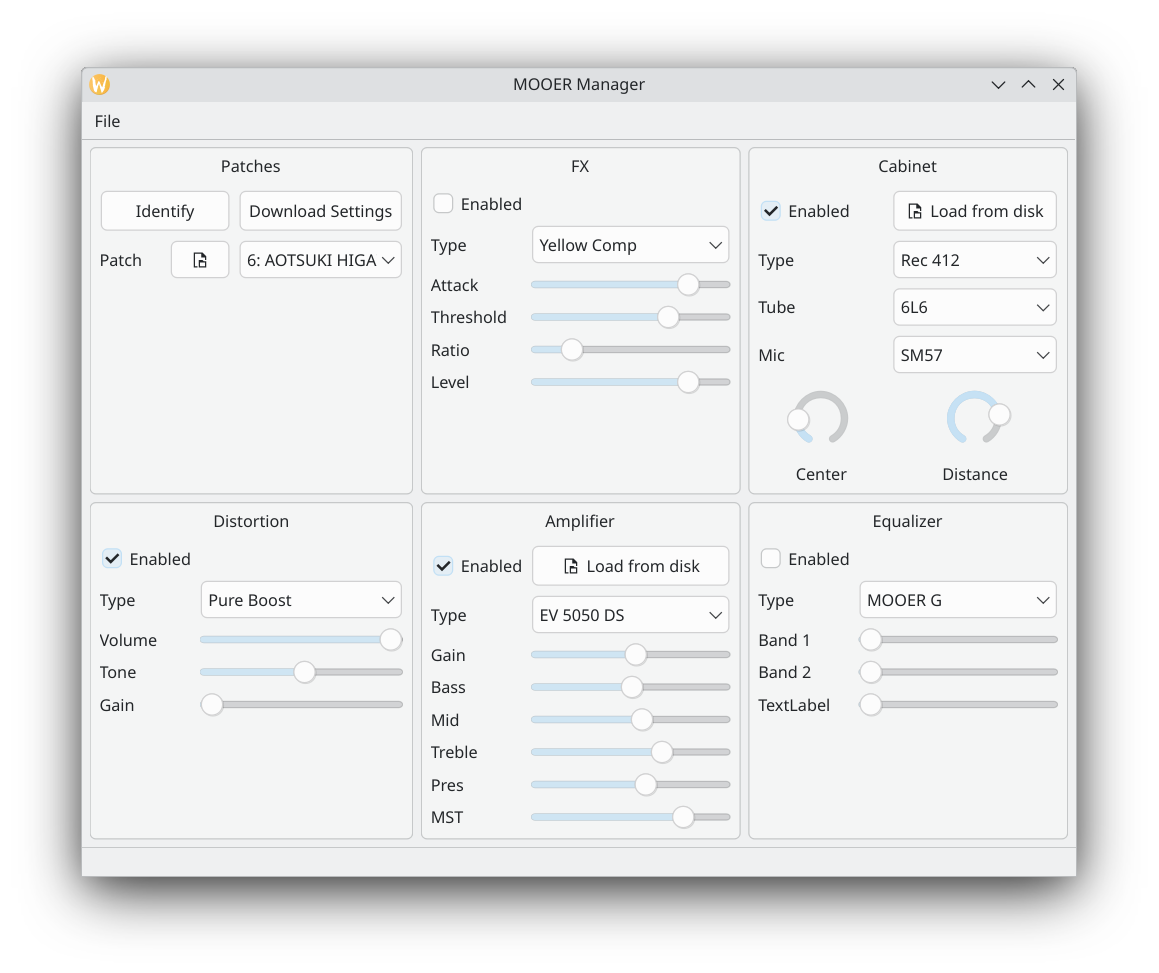
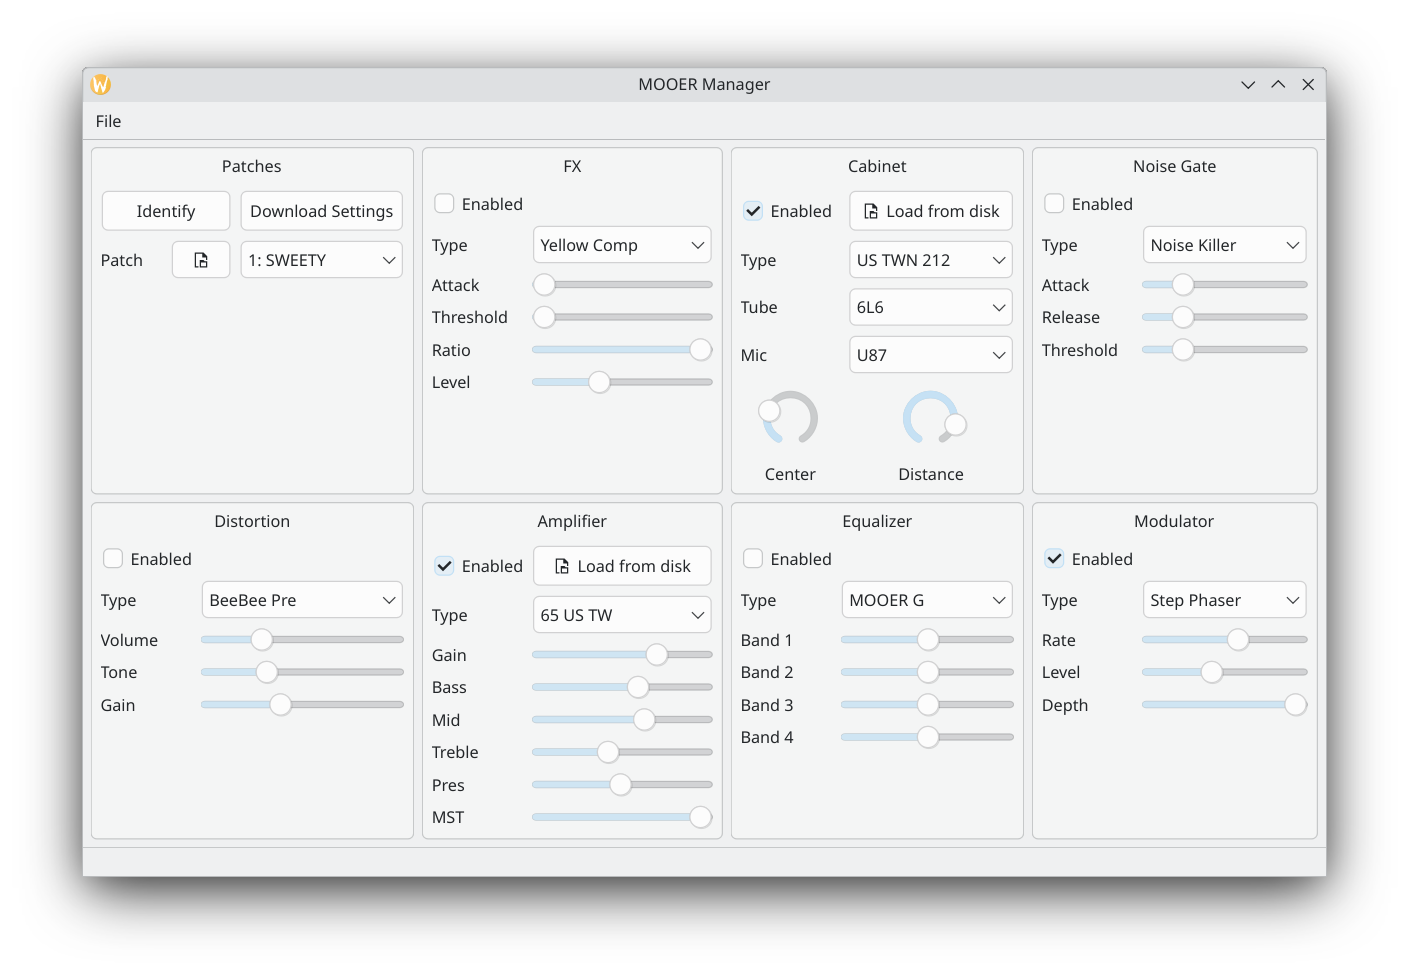
Add control for noise-gate, EQ and MOD

diff --git a/mooer.gui/MooerManager.cc b/mooer.gui/MooerManager.cc
@@ -6,7 +6,7 @@
 #include <QFileDialog>
 
 
-//#define DEBUG_LVL 3
+#define DEBUG_LVL 3
 
 
 const QString ptFileOpen = "/home/thijs/gitrepo/mooer/traces";
@@ -50,6 +50,7 @@ std::vector<std::uint8_t> ReadFile(std::filesystem::path fn)
 MooerManager::MooerManager(QWidget* parent)
 	: m_usb({Mooer::vendor_id, Mooer::product_id})
 	, m_mooer(&m_usb, this)
+	, m_need_patches(true)
 #ifdef MOOER_HAS_MIDI
 	, m_midi("MooerManager", this)
 #endif
@@ -94,6 +95,9 @@ MooerManager::MooerManager(QWidget* parent)
 	ConnectDistortion();
 	ConnectAmplifier();
 	ConnectCabinet();
+	ConnectNoiseGate();
+	ConnectEqualizer();
+	ConnectModulator();
 
 	connect(
 		this,
@@ -103,6 +107,12 @@ MooerManager::MooerManager(QWidget* parent)
 		{
 			qDebug() << "Connected to " << name;
 			m_ui.statusbar->showMessage(QString("Connected to %1, version %2").arg(name, version), 5 * 1000);
+			if(m_need_patches)
+			{
+				m_mooer.SendFlush();
+				m_mooer.SendPatchListRequest();
+				m_need_patches = false;
+			}
 		},
 		Qt::QueuedConnection);
 
@@ -143,8 +153,7 @@ MooerManager::MooerManager(QWidget* parent)
 
 	// This is the sequence MooerStudio sends out
 	m_mooer.SendIdentifyRequest();
-	m_mooer.SendFlush();
-	m_mooer.SendPatchListRequest();
+	m_mooer.SendIdentifyRequest();
 	qDebug() << "MooerManager: constructor finished";
 }
 
@@ -303,7 +312,7 @@ void MooerManager::ConnectNoiseGate()
 	connect(m_ui.cb_ns_enabled, &QCheckBox::clicked,
 			[=](bool e){ pS->enabled = e; send(); });
 	connect(m_ui.cb_ns_type, &QComboBox::currentIndexChanged,
-			[=](int i){ pS->type = i; send(); });
+			[=](int i){ pS->type = i+1; send(); });
 	connect(m_ui.sl_ns_p1, &QSlider::valueChanged,
 			[=](int v){ pS->attack = v; send(); });
 	connect(m_ui.sl_ns_p2, &QSlider::valueChanged,
@@ -324,13 +333,15 @@ void MooerManager::ConnectEqualizer()
 	connect(m_ui.cb_eq_enabled, &QCheckBox::clicked,
 			[=](bool e){ pS->enabled = e; send(); });
 	connect(m_ui.cb_eq_type, &QComboBox::currentIndexChanged,
-			[=](int i){ pS->type = i; send(); });
+			[=](int i){ pS->type = i+1; send(); });
 	connect(m_ui.s_eq_band1, &QSlider::valueChanged,
 			[=](int v){ pS->band[0] = v; send(); });
 	connect(m_ui.s_eq_band2, &QSlider::valueChanged,
 			[=](int v){ pS->band[1] = v; send(); });
 	connect(m_ui.s_eq_band3, &QSlider::valueChanged,
 			[=](int v){ pS->band[2] = v; send(); });
+	connect(m_ui.s_eq_band4, &QSlider::valueChanged,
+			[=](int v){ pS->band[3] = v; send(); });
 }
 
 
@@ -345,7 +356,7 @@ void MooerManager::ConnectModulator()
 	connect(m_ui.cb_mod_enabled, &QCheckBox::clicked,
 			[=](bool e){ pS->enabled = e; send(); });
 	connect(m_ui.cb_mod_type, &QComboBox::currentIndexChanged,
-			[=](int i){ pS->type = i; send(); });
+			[=](int i){ pS->type = i + 1; send(); });
 	connect(m_ui.s_mod_p1, &QSlider::valueChanged,
 			[=](int v){ pS->rate = v; send(); });
 	connect(m_ui.s_mod_p2, &QSlider::valueChanged,
@@ -403,12 +414,19 @@ void MooerManager::OnMooerFrame(const Mooer::RxFrame::Frame& frame)
 		break;
 	case Mooer::RxFrame::PatchSetting:
 	{
-#ifdef DEBUG_LVL
+#if DEBUG_LVL > 3
 		Mooer::File::PresetPadded preset = data_nochk.subspan(1);
 		qDebug() << std::format("MooerManager: received patch {:3d} {}", frame.index(), preset.getName());
 #endif
-		m_mstate.savedPresets.at(frame.index()) = data_nochk.subspan(1);
-		emit MooerPatchSetting(frame.index());
+		if(data_nochk.size() == 0x201)
+		{
+			m_mstate.savedPresets.at(frame.index()) = data_nochk.subspan(1);
+			emit MooerPatchSetting(frame.index());
+		}
+		else
+		{
+			qDebug() << QString("Received invalid preset of size %1").arg(data_nochk.size());
+		}
 	}
 	break;
 	case Mooer::RxFrame::FX:
@@ -433,8 +451,11 @@ void MooerManager::OnMooerFrame(const Mooer::RxFrame::Frame& frame)
 		break;
 	case Mooer::RxFrame::EQ:
 		m_mstate.activePreset.equalizer = data_nochk;
+		emit MooerSettingsChanged(frame.group());
 		break;
 	case Mooer::RxFrame::MOD:
+		m_mstate.activePreset.modulation = data_nochk;
+		emit MooerSettingsChanged(frame.group());
 		break;
 	case Mooer::RxFrame::DELAY:
 		break;
@@ -453,8 +474,13 @@ void MooerManager::OnMooerFrame(const Mooer::RxFrame::Frame& frame)
 						.arg(frame.data.size());
 		break;
 	}
-#if DEBUG_LVL > 3
-	qDebug() << std::format("MooerManager: received frame {:04x}, size {}", frame.key, frame.data.size());
+#if DEBUG_LVL > 2
+	if(frame.group() != Mooer::RxFrame::PatchSetting && (data.size() > 20))
+	{
+		int sz = frame.data.size();
+		qDebug() << std::format("MooerManager: received frame {:04x}, size {}", frame.key, frame.data.size());
+		sz++;
+	}
 #endif
 }
 
@@ -539,6 +565,33 @@ void MooerManager::UpdateSettingsView(Mooer::RxFrame::Group group)
 
 	if(group == Mooer::RxFrame::Group::NS_GATE)
 	{
+		auto& ps = preset.noiseGate;
+		WBS(m_ui.cb_ns_enabled)->setChecked(ps.enabled);
+		WBS(m_ui.cb_ns_type)->setCurrentIndex(ps.type - 1);
+		WBS(m_ui.sl_ns_p1)->setValue(ps.attack);
+		WBS(m_ui.sl_ns_p2)->setValue(ps.release);
+		WBS(m_ui.sl_ns_p3)->setValue(ps.thresh);
+	}
+
+	if(group == Mooer::RxFrame::Group::EQ)
+	{
+		auto& ps = preset.equalizer;
+		WBS(m_ui.cb_eq_enabled)->setChecked(ps.enabled);
+		WBS(m_ui.cb_eq_type)->setCurrentIndex(ps.type - 1);
+		WBS(m_ui.s_eq_band1)->setValue(ps.band[0]);
+		WBS(m_ui.s_eq_band2)->setValue(ps.band[1]);
+		WBS(m_ui.s_eq_band3)->setValue(ps.band[2]);
+		WBS(m_ui.s_eq_band4)->setValue(ps.band[3]);
+	}
+
+	if(group == Mooer::RxFrame::Group::MOD)
+	{
+		auto& ps = preset.modulation;
+		WBS(m_ui.cb_mod_enabled)->setChecked(ps.enabled);
+		WBS(m_ui.cb_mod_type)->setCurrentIndex(ps.type - 1);
+		WBS(m_ui.s_mod_p1)->setValue(ps.rate);
+		WBS(m_ui.s_mod_p2)->setValue(ps.level);
+		WBS(m_ui.s_mod_p3)->setValue(ps.depth);
 	}
 }
 

diff --git a/mooer.lib/MooerParser.h b/mooer.lib/MooerParser.h
@@ -5,6 +5,7 @@
 #include <cassert>
 #include <cstdint>
 #include <cstring>
+#include <format>
 #include <iostream>
 #include <optional>
 #include <type_traits>
@@ -106,7 +107,7 @@ struct u16be
 		s.lo = v & 0xFF;
 	}
 
-	operator std::uint16_t()
+	operator std::uint16_t() const
 	{
 		return (((std::uint16_t)s.hi) << 8) | s.lo;
 	}
@@ -348,11 +349,16 @@ static_assert(sizeof(Equalizer) == 0x17 - sh);
 
 struct Mod
 {
+	auto& operator=(std::span<const std::uint8_t> s)
+	{
+		return copy(*this, s);
+	}
+
 	u16be enabled, type;
 	u16be rate, level, depth;
-	u16be p4;
+	u16be p4, p5;
 };
-static_assert(sizeof(Mod) == 0x0d - sh);
+static_assert(sizeof(Mod) == 0x0f - sh);
 
 struct Delay
 {
@@ -462,7 +468,7 @@ struct Preset
 	Delay delay;
 	Reverb reverb;
 	Rhythm rhythm;
-	u8 unknown[0x160];
+	u8 unknown[0x15e];
 };
 static_assert(sizeof(Preset) == 0x200);
 
@@ -473,7 +479,7 @@ struct State
 	int activeMenu;
 	AmpModelNames ampModelNames;
 	Preset activePreset;
-	std::array<Mooer::File::PresetPadded, 199> savedPresets;
+	std::array<Mooer::File::PresetPadded, 200> savedPresets;
 };
 
 } // namespace DeviceFormat
@@ -718,18 +724,25 @@ public:
 	{
 		std::array<std::uint8_t, sizeof(DeviceFormat::NS) + 1> msg{RxFrame::Group::NS_GATE, 0};
 		copy(std::span(msg).subspan(1), s);
+		SendWithHeaderAndChecksum(msg);
 	}
 
 	void SetEQ(const DeviceFormat::Equalizer& s)
 	{
 		std::array<std::uint8_t, sizeof(DeviceFormat::Equalizer) + 1> msg{RxFrame::Group::EQ, 0};
 		copy(std::span(msg).subspan(1), s);
+		SendWithHeaderAndChecksum(msg);
 	}
 
 	void SetModulator(const DeviceFormat::Mod& s)
 	{
 		std::array<std::uint8_t, sizeof(DeviceFormat::Mod) + 1> msg{RxFrame::Group::MOD, 0};
+		std::uint16_t type = s.type;
+		if(type >= 22)
+			throw std::runtime_error(std::format("Modulator type {} must be < 21", type));
 		copy(std::span(msg).subspan(1), s);
+		// This makes the GE-200 crash
+		SendWithHeaderAndChecksum(msg);
 	}
 
 private:

diff --git a/mooer.gui/MooerManager.h b/mooer.gui/MooerManager.h
@@ -10,7 +10,7 @@
 
 #ifdef __linux__
 #include <Jack.h>
-#define MOOER_HAS_MIDI
+// #define MOOER_HAS_MIDI
 #endif
 
 
@@ -66,9 +66,10 @@ private:
 
 	// Device
 	std::mutex m_dev_mutex;
+	bool m_need_patches;
 	Mooer::Listener::Identity m_device_id;
 	Mooer::DeviceFormat::State m_mstate; // Device state
-#ifdef __linux__
+#if defined(MOOER_HAS_MIDI) and defined(__linux__)
 	Jack::MooerMidiControl m_midi;
 #endif
 };
